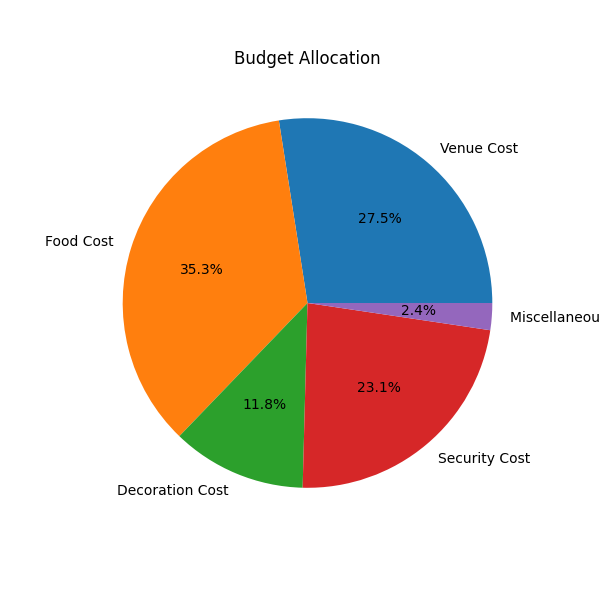
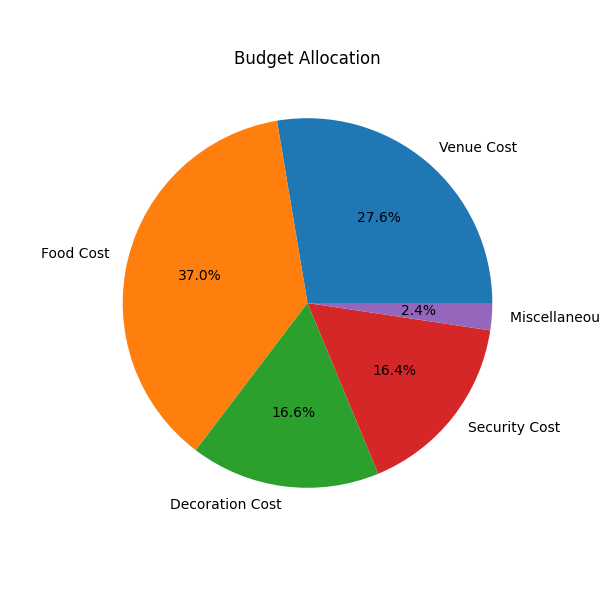
Production Ready Version

diff --git a/frontend/src/pages/EventBrief.jsx b/frontend/src/pages/EventBrief.jsx
@@ -381,12 +381,25 @@ function EventBrief() {
 
         budgetPlan:
           backendData?.budget_plan || {},
+
         security:
           backendData?.security || {},
+
         classification:
           backendData?.classification || {},
+
+        food:
+          backendData?.food || {},
+
+        decoration:
+          backendData?.decoration || {},
+
+        entertainment:
+          backendData?.entertainment || {},
+
         theme:
-           backendData?.theme || "",
+          backendData?.theme || "",
+
         venue:
           backendData?.venue || {},
 
@@ -411,6 +424,26 @@ function EventBrief() {
 
             
       };
+
+      console.log(
+        "FINAL STORED EVENT DATA:",
+        finalEventData
+      );
+
+      console.log(
+        "STORED FOOD:",
+        finalEventData.food
+      );
+
+      console.log(
+        "STORED DECORATION:",
+        finalEventData.decoration
+      );
+
+      console.log(
+        "STORED ENTERTAINMENT:",
+        finalEventData.entertainment
+      );
 
       console.log(
         "FINAL STORED EVENT DATA:",

diff --git a/frontend/src/pages/EventPlan.jsx b/frontend/src/pages/EventPlan.jsx
@@ -40,6 +40,18 @@ function EventPlan() {
     eventData
   );
 
+  console.log("FOOD:", eventData?.food);
+
+  console.log("DECORATION:", eventData?.decoration);
+
+  console.log("ENTERTAINMENT:", eventData?.entertainment);
+
+  console.log("SECURITY:", eventData?.security);
+
+  console.log("TIMELINE:", eventData?.timeline);
+
+  console.log("VENDORS:", eventData?.vendors);
+
   try {
 
 
@@ -77,7 +89,7 @@ function EventPlan() {
     );
 
     const response = await fetch(
-      `https://ai-event-planner-sjgz.onrender.com/events/${eventData.eventId}/report`,
+      `http://127.0.0.1:8000/events/${eventData.eventId}/report`,
       {
         method: "POST",
 
@@ -203,6 +215,21 @@ function EventPlan() {
 console.log(
   "EVENT DATA:",
   eventData
+);
+
+console.log(
+  "FOOD DATA:",
+  eventData?.food
+);
+
+console.log(
+  "DECORATION DATA:",
+  eventData?.decoration
+);
+
+console.log(
+  "ENTERTAINMENT DATA:",
+  eventData?.entertainment
 );
 
 console.log(

diff --git a/frontend/src/pages/NewEvent.jsx b/frontend/src/pages/NewEvent.jsx
@@ -53,6 +53,21 @@ function NewEvent() {
 
       const response = await generateEventPlan(formData);
 
+ console.log(
+  "FOOD FROM API",
+  response?.data?.food
+);
+
+console.log(
+  "DECORATION FROM API",
+  response?.data?.decoration
+);
+
+console.log(
+  "ENTERTAINMENT FROM API",
+  response?.data?.entertainment
+);     
+
 console.log(
   "API RESPONSE:",
   response

diff --git a/backend/routes/event_routes.py b/backend/routes/event_routes.py
@@ -707,11 +707,9 @@ def download_report(
         print("=" * 80)
         print("FINAL PDF DATA")
         print(pdf_data)
-        print("=" * 80)
 
-        print("=" * 80)
-        print("FINAL PDF DATA")
-        print(pdf_data)
+        
+
 
         print("=" * 80)
         print("TIMELINE")
@@ -738,6 +736,20 @@ def download_report(
 
         try:
             print("STARTING PDF GENERATION")
+
+            print("=" * 80)
+            print("PDF DATA KEYS")
+            print(pdf_data.keys())
+
+            print("FOOD:")
+            print(pdf_data.get("food"))
+
+            print("DECORATION:")
+            print(pdf_data.get("decoration"))
+
+            print("ENTERTAINMENT:")
+            print(pdf_data.get("entertainment"))
+            print("=" * 80)
 
             generate_pdf(
                 pdf_data,

diff --git a/backend/utils/pdf_generator.py b/backend/utils/pdf_generator.py
@@ -637,8 +637,16 @@ def generate_pdf(
             Spacer(1,20)
         )
 
-        if False:
+        if event_image and os.path.exists(event_image):
+
             try:
+
+                print("=" * 50)
+                print("ADDING IMAGE TO PDF")
+                print(event_image)
+                print(os.path.exists(event_image))
+                print("=" * 50)
+                
                 event_img = Image(
                     event_image,
                     width=420,